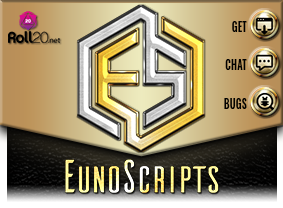
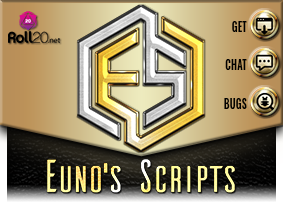
Image Updates

Changed region(s): [[0.1413, 0.75, 0.8481, 0.9519], [0.9611, 0.6058, 0.9894, 0.9519]]

diff --git a/EunoLIB.js b/EunoLIB.js
@@ -261,7 +261,7 @@ const EunoCORE = {
         // #endregion ░░░░[COLORS]░░░░
         // #region ░░░░░░░[IMAGES] Image Source URLs ░░░░░░░ ~
         IMAGES: (() => {
-            const IMGROOT = "http://raw.githubusercontent.com/Eunomiac/EunosRoll20Scripts/master/images";
+            const IMGROOT = "https://tinyurl.com/EunoScriptImages"; // "http://raw.githubusercontent.com/Eunomiac/EunosRoll20Scripts/master/images";
             return Object.fromEntries(Object.entries({
                 buttonDownload: ["buttons", "buttonDownload.png", [50, 50]],
                 buttonChat: ["buttons", "buttonChat.png", [50, 50]],
@@ -1298,7 +1298,7 @@ const EunoLIB = /** @lends EunoLIB */ (() => {
             blockSpacing: 10,
             shifts: {
                 boxAll: [-27, 0, -7, -45],
-                titleMainBottom: -35,
+                titleMainBottom: 0,
                 titleScriptsBottom: -62,
                 subtitleBottom: -24,
                 commandHighlightShiftLeft: -20,
@@ -1462,8 +1462,9 @@ const EunoLIB = /** @lends EunoLIB */ (() => {
                 }
                 .block.silver {color: ${C.COLORS.white};}
                 .block.titleButtons {
+                    position: relative;
                     width: 40px;
-                    top: -165px;
+                    top: -200px;
                     left: 240px;
                 }
                 .title, .subtitle {
